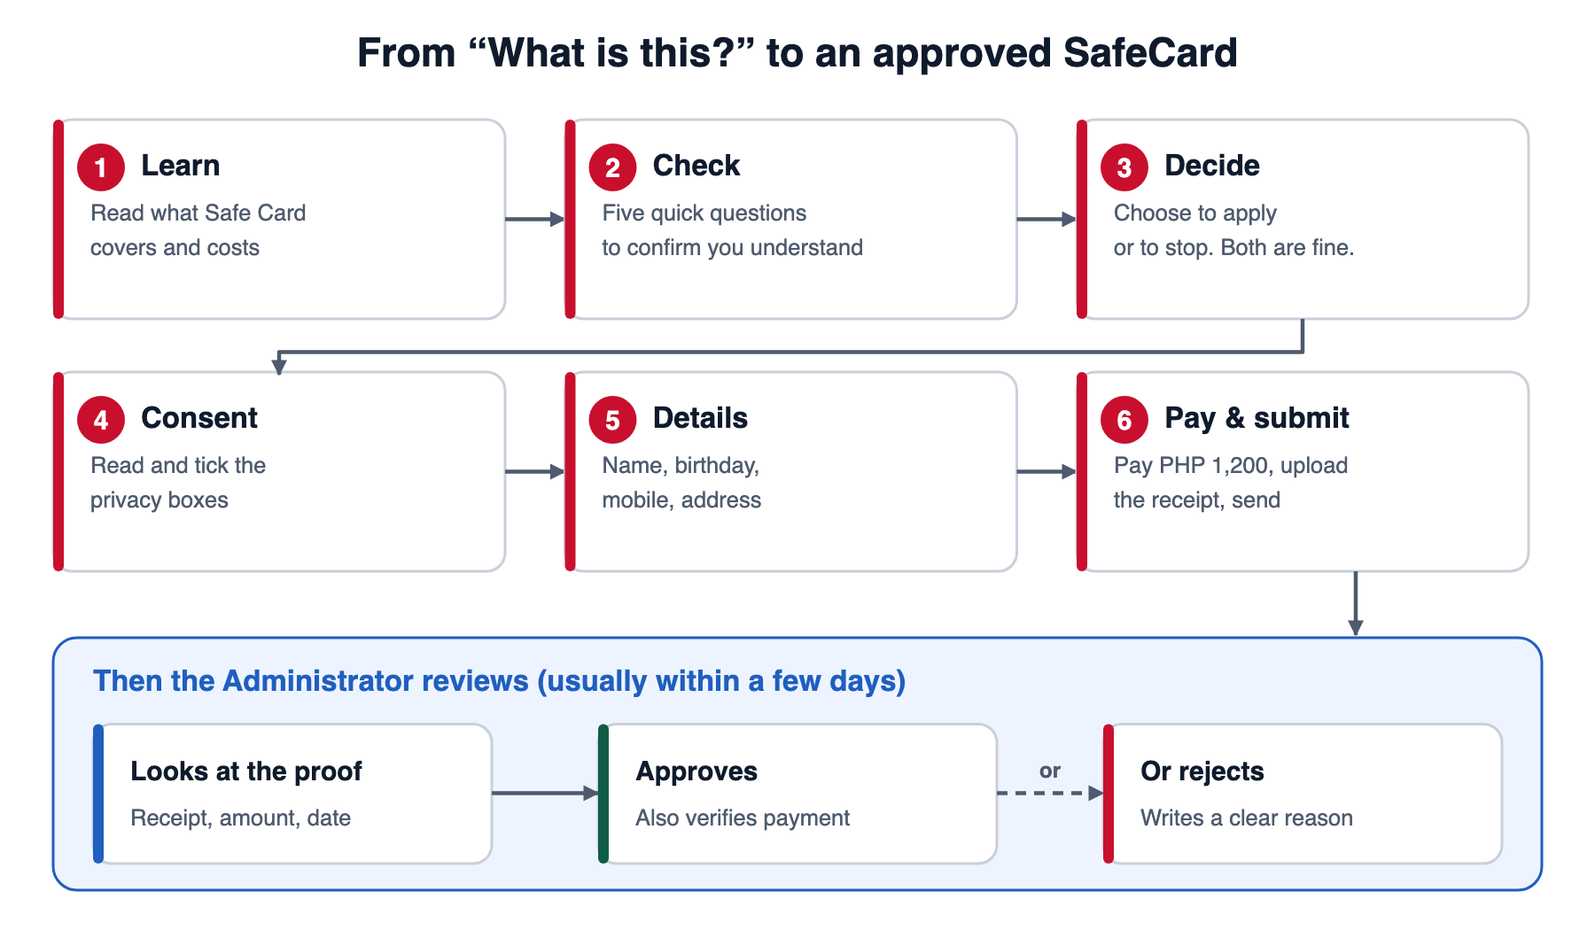
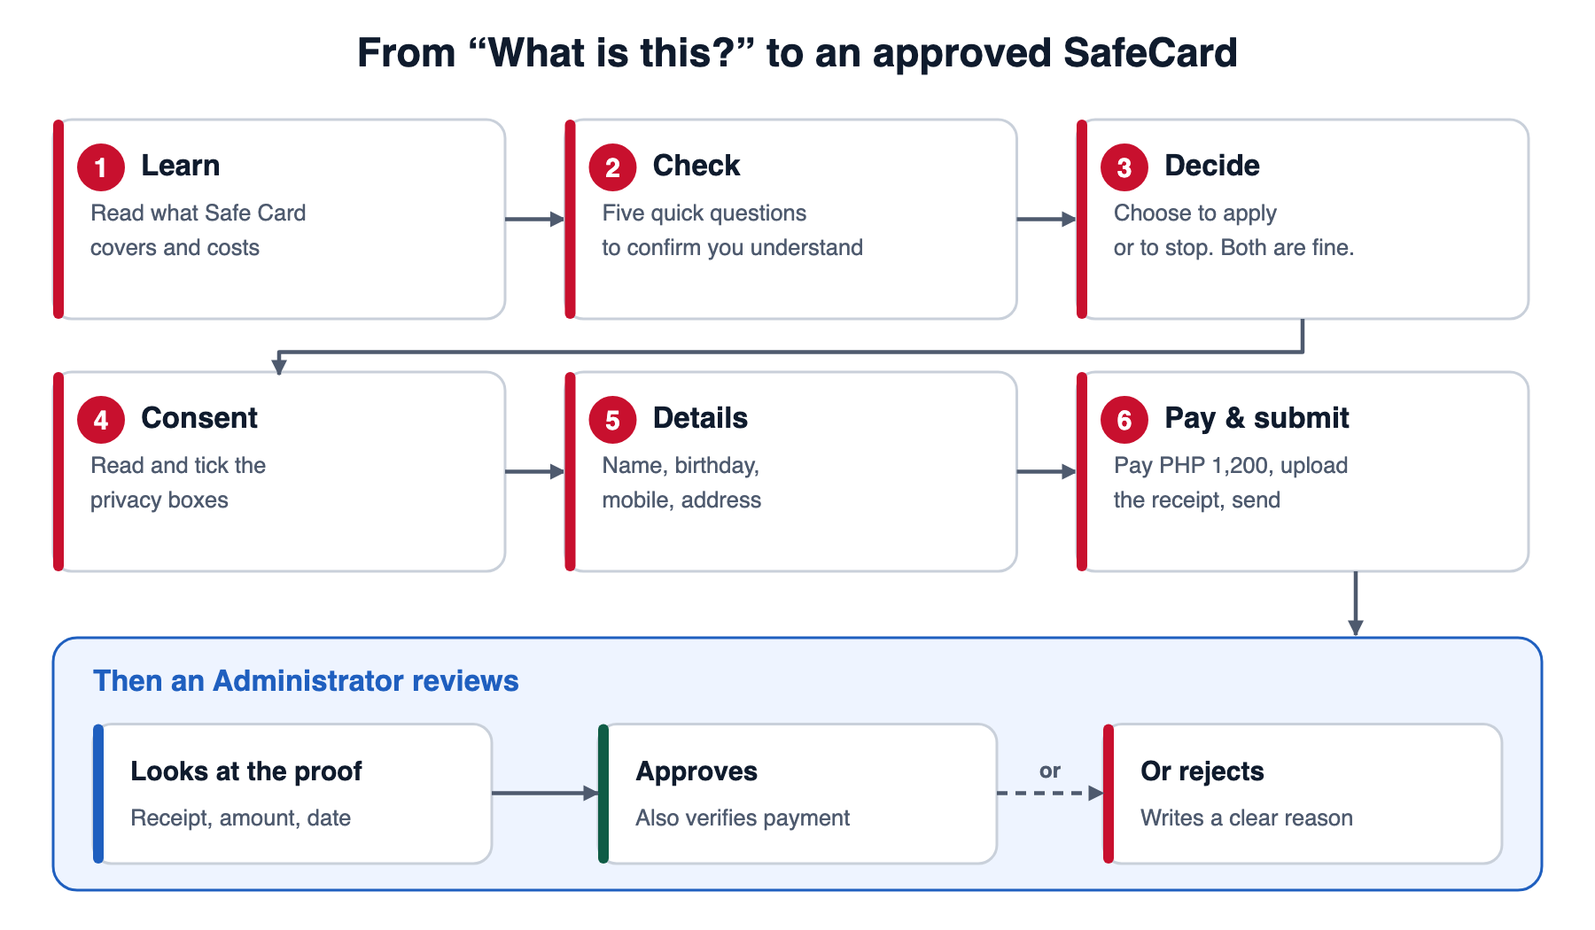
docs(handover): resolve Supabase projects, retire shared-password guide, drop proposed timings
- Document that our deployment uses ubkbrgxgpxycoqsqiwga and the repository
  owner's separate deployment uses ajyhlkzbocjeepglkhrl.
- Remove docs/indy-migration-guide.md and its SQL file, which carried a
  shared temporary password.
- Remove proposed cadences, review targets, durations and the hypercare
  timeline from the pack; keep only contents.
- Drop the Red Cross confirmation notes for the apply-by date and wording.

Changed region(s): [[0.0933, 0.701, 0.56, 0.7619]]

diff --git a/docs/handover/04-hypercare-and-runbooks.md b/docs/handover/04-hypercare-and-runbooks.md
@@ -1,25 +1,21 @@
 # Hypercare plan and runbooks
 
-*What to do in the first weeks after real applicants arrive, and exactly what to do when something goes wrong.*
+*What to do while the pilot is closely watched after real applicants arrive, and exactly what to do when something goes wrong.*
 
 > **Read this first.** If something looks wrong and you are not sure what it is: **do not guess, do not delete anything.** Go to [the Stop button](#2-the-stop-button), then tell the owner. Stopping is safe and can be undone.
 
 **In this document:** [1. What hypercare is](#1-what-hypercare-is) · [2. The Stop button](#2-the-stop-button) · [3. Who does what](#3-who-does-what) · [4. The hypercare log](#4-the-hypercare-log) · [5. Checklists](#5-checklists) · [6. How serious is it?](#6-how-serious-is-it) · [7. Runbooks](#7-runbooks) · [8. Ending hypercare](#8-ending-hypercare) · [9. Handover sign-off](#9-handover-sign-off)
 
-> **Proposed, not agreed.** The checking rhythm, review speeds and severity timings below are **suggested starting points** written for this handover. They are not agreed service levels. The owner should confirm or change them before launch. The *safety rules* (the Stop button, never deleting evidence, owner-only deploys) are **not** suggestions; they come from the project’s release gates.
-
 ---
 
 ## 1. What hypercare is
 
-When a new restaurant opens, the owner stays in the kitchen for the first weeks, tastes every dish, and fixes small things the same day. **Hypercare is that.** For a short time after real people start using SafeCard, we watch it much more closely than usual, answer questions fast, and write down everything we learn.
-
-![The four hypercare weeks](images/diagram-hypercare.png)
+When a new restaurant opens, the owner stays in the kitchen, tastes every dish, and fixes small things right away. **Hypercare is that.** Right after real people start using SafeCard, we watch it much more closely than usual, answer questions fast, and write down everything we learn.
 
 **Goals**
 
 1. No real applicant is harmed, embarrassed, or left waiting without an answer.
-2. Every application is reviewed fairly and on time.
+2. Every application is reviewed fairly.
 3. Small problems are found while they are still small.
 4. We learn what to fix before opening to more people.
 
@@ -102,7 +98,7 @@ Keep **one running log**. A shared document or spreadsheet is fine. It is the me
 
 | When | Who | What happened / what I saw | Severity | What I did | Follow-up needed? |
 |---|---|---|---|---|---|
-| 2026-__-__ 09:10 | | | | | |
+| | | | | | |
 
 **Rules for the log**
 
@@ -114,17 +110,17 @@ Keep **one running log**. A shared document or spreadsheet is fine. It is the me
 
 ## 5. Checklists
 
-### Each check (morning; plus evening in week 1)
+### Each check
 
 - [ ] Open the **public site** on your phone. Does the home page load? Does **Apply** open?
 - [ ] Switch language FIL ⇄ EN. Does it still read correctly?
 - [ ] Sign in to **admin**. Does the overview load with sensible numbers?
-- [ ] **Awaiting review**: is anything waiting longer than the target? (Proposed: same day in week 1, within 1 day in week 2, within 2 days in week 3.)
+- [ ] **Awaiting review**: is any application still waiting that should already have a decision?
 - [ ] Look in **Vercel → Logs** for red errors and in **Supabase → Logs** for repeated failures. You are looking for *unusual*, not *perfect*.
 - [ ] Any messages or calls from applicants? Log them.
 - [ ] Anything odd? Write it in the log.
 
-### Once a week
+### Regular review
 
 - [ ] Count: applications received, approved, rejected, still waiting.
 - [ ] Read the **rejection reasons**: are they clear and kind? Are the same ones repeating (meaning the form needs clearer instructions)?
@@ -132,18 +128,18 @@ Keep **one running log**. A shared document or spreadsheet is fine. It is the me
 - [ ] Confirm **only the right people** have staff accounts.
 - [ ] Confirm the three **safety switches** are still what you expect.
 - [ ] Confirm the **campaign cap** (default 50) has not been reached silently.
-- [ ] Review the log with the owner (15 minutes).
+- [ ] Review the log with the owner.
 
 ---
 
 ## 6. How serious is it?
 
-| Level | What it looks like | Do this | Proposed time to react |
-|---|---|---|---|
-| **1: Critical** | Private data exposed, secret leaked, money shown wrongly, unexplained decisions | **[Stop button](#2-the-stop-button)** → tell owner now → log | Immediately |
-| **2: Major** | Applicants cannot apply or upload; admins cannot sign in; reviewers cannot open applications | Tell owner now. Stop if it involves data or money. | Same hour |
-| **3: Minor** | Wrong wording, a layout glitch, one slow page, one confusing message | Screenshot (no private data) → log → fix through a normal pull request | Same week |
-| **4: Idea** | “It would be nicer if…” | Log it for the owner | Whenever |
+| Level | What it looks like | Do this |
+|---|---|---|
+| **1: Critical** | Private data exposed, secret leaked, money shown wrongly, unexplained decisions | **[Stop button](#2-the-stop-button)** → tell owner now → log |
+| **2: Major** | Applicants cannot apply or upload; admins cannot sign in; reviewers cannot open applications | Tell owner now. Stop if it involves data or money. |
+| **3: Minor** | Wrong wording, a layout glitch, one slow page, one confusing message | Screenshot (no private data) → log → fix through a normal pull request |
+| **4: Idea** | “It would be nicer if…” | Log it for the owner |
 
 ---
 
@@ -231,17 +227,17 @@ Each runbook says **what you see**, **what to do**, and **who to tell**. They ar
 
 ## 8. Ending hypercare
 
-At the end of week 4, hold a short **exit review** (the owner and Indy, 30 minutes). Hypercare ends when **all** of these are true:
+When you think hypercare can end, hold a short **exit review** (the owner and Indy). Hypercare ends when **all** of these are true:
 
 - [ ] No Level 1 or Level 2 issue is open.
-- [ ] Applications are being reviewed within the agreed time, with no backlog.
+- [ ] No application is waiting without a decision, and nobody is waiting on an answer.
 - [ ] The log has been read through and every follow-up is done, scheduled, or deliberately dropped.
 - [ ] The Help page answers the most common questions people asked.
-- [ ] Staff accounts match the people who should have them, and the shared temporary password has been retired (see [housekeeping](03-technical-handover.md#11-security-housekeeping)).
+- [ ] Staff accounts match the people who should have them.
 - [ ] A backup plan exists, or the owner has written down why not yet.
 - [ ] The owner has signed off in writing.
 
-If not all are true, **extend hypercare for one more week** and review again. There is no shame in extending.
+If not all are true, **keep hypercare going** and review again. There is no shame in extending.
 
 ---
 
@@ -249,7 +245,7 @@ If not all are true, **extend hypercare for one more week** and review again. Th
 
 Use this page to record that the handover happened.
 
-| Check | Done (date) | Initials |
+| Check | Done | Initials |
 |---|---|---|
 | I have read the [README](README.md) and know who owns what | | |
 | I can explain, in my own words, what SafeCard does | | |
@@ -257,7 +253,7 @@ Use this page to record that the handover happened.
 | I know where the **Stop button** is and what each step does | | |
 | I have the contact table filled in | | |
 | I know the **two rules that never bend** (code only to the project repo; live changes only from the owner’s Vercel, after a clear yes) | | |
-| I know which Supabase project is live (and wrote it down) | | |
+| I know which Supabase project belongs to our deployment, and which one is not ours | | |
 | I have asked every question I had | | |
 
-**Handed over by:** ______________ **Received by:** ______________ **Date:** ____________
+**Handed over by:** ______________ **Received by:** ______________

diff --git a/docs/handover/03-technical-handover.md b/docs/handover/03-technical-handover.md
@@ -48,7 +48,7 @@ SafeCard is **one website** that has a public side, a member side and an admin s
 - **Git**, to download the code.
 - For the *full* setup only: the **Supabase CLI** and a **Docker-compatible app** (Docker Desktop or similar).
 
-### Option A: “Quick look” (practice mode, no database, 10 minutes)
+### Option A: “Quick look” (practice mode, no database)
 
 This is enough to see every public page and the apply screens.
 
@@ -202,7 +202,14 @@ In live production the app is **fail-closed**: if any required value is missing 
 
 ## 6. The database (Supabase)
 
-> ⚠ **Confirm the project first.** The repository documents refer to Supabase project `ajyhlkzbocjeepglkhrl`. The owner’s working notes refer to `ubkbrgxgpxycoqsqiwga`. Open the Supabase dashboard, check which project the live site’s `NEXT_PUBLIC_SUPABASE_URL` points to, and write the answer here before doing anything to a live database.
+> **Which Supabase project is which.** SafeCard has two live deployments, each with its own database. This was confirmed from the security headers each live site sends.
+>
+> | Deployment | Address | Supabase project |
+> |---|---|---|
+> | **Ours** (the owner’s own Vercel account) | `safecard-access-platform-phi.vercel.app` | `ubkbrgxgpxycoqsqiwga` |
+> | The repository owner’s separate deployment | `safecard-access-platform.vercel.app` | `ajyhlkzbocjeepglkhrl` |
+>
+> The older repository documents (`release-gates.md`, `controlled-production-pilot.md`) describe the **second** one. Never run database commands against, or deploy to, a project that is not yours. The project’s own test setup refuses to seed `ajyhlkzbocjeepglkhrl`. Your local database link (`supabase/.temp/project-ref`) should read `ubkbrgxgpxycoqsqiwga`.
 
 ### What lives in it
 
@@ -297,16 +304,16 @@ Fee: **₱1,200 a year**. The official payment routes and account details are ke
 
 Think of tests as a team of tireless inspectors.
 
-| Command | What it checks | Time |
-|---|---|---|
-| `npm run lint` | Code style problems and common mistakes | seconds |
-| `npm run typecheck` | The labels (types) all line up | seconds |
-| `npm test` | Hundreds of small logic checks (Vitest) | seconds |
-| `npm run build` | The whole site can be built for real | ~1 minute |
-| `npm run test:e2e` | Robot browsers click through the public site in Chrome, Firefox, Safari, and two phone sizes | ~15–30 minutes |
-| `npm run test:performance` | Speed budgets (loading time) | few minutes |
-| `npm run test:e2e:admin` / `test:performance:admin` | Admin screens, against a disposable practice database | needs Docker |
-| `npm run verify` | **All of the main ones, in order** | long |
+| Command | What it checks |
+|---|---|
+| `npm run lint` | Code style problems and common mistakes |
+| `npm run typecheck` | The labels (types) all line up |
+| `npm test` | Hundreds of small logic checks (Vitest) |
+| `npm run build` | The whole site can be built for real |
+| `npm run test:e2e` | Robot browsers click through the public site in Chrome, Firefox, Safari, and two phone sizes |
+| `npm run test:performance` | Speed budgets (loading time) |
+| `npm run test:e2e:admin` / `test:performance:admin` | Admin screens, against a disposable practice database |
+| `npm run verify` | **All of the main ones, in order** |
 
 To run the browser tests against a site you already started (as in option C above):
 
@@ -378,7 +385,7 @@ Things to do or confirm. None of them need a developer.
 
 | # | Item | Why |
 |---|---|---|
-| 1 | **Retire the shared temporary password.** [`docs/indy-migration-guide.md`](../indy-migration-guide.md) and `docs/indy-pilot-accounts-setup.sql` contain a shared temporary password and fixed account details for pilot accounts. Anyone who ever saw those files can try that password. **Change the passwords on those accounts** and ask the owner whether to delete or rewrite those two files (the git history will still contain them). | A password in a repository is a published password. |
+| 1 | **Change the passwords on the pilot accounts that the retired setup guide created.** The old guide (`docs/indy-migration-guide.md`) and its SQL file were removed from the repository, but they still exist in the project’s git history, so the shared temporary password they contained must be treated as public. Change it in **Supabase → Authentication → Users** for each account. | A password in a repository is a published password. |
 | 2 | Confirm every staff account uses a **private** password nobody else knows. | Accountability. |
 | 3 | Confirm Production, Preview and Development use **different** secrets and data. | One leak must not open everything. |
 | 4 | Confirm the `SUPABASE_SERVICE_ROLE_KEY` is only in Vercel’s **server** settings. | It bypasses database rules. |
@@ -389,9 +396,7 @@ Things to do or confirm. None of them need a developer.
 
 ## 12. Christmas mode
 
-A temporary campaign (gift pages, a card maker, decorations) that **switches itself on and off by date** and can be stopped instantly. Everything about it is in [`docs/christmas-mode.md`](../christmas-mode.md). In one picture:
-
-![Christmas mode dates](images/diagram-christmas-timeline.png)
+A temporary campaign (gift pages, a card maker, decorations) that **switches itself on and off by date** and can be stopped instantly. Everything about it, including how to stop or remove it, is in [`docs/christmas-mode.md`](../christmas-mode.md).
 
 ---
 
@@ -413,15 +418,11 @@ The script answers every request with **fake sample data**, so it cannot touch a
 
 | # | Item | Suggested next step |
 |---|---|---|
-| 1 | Which Supabase project is live ([section 6](#6-the-database-supabase)). | Owner confirms; write it down. |
-| 2 | Shared temporary password in an old guide ([section 11](#11-security-housekeeping)). | Rotate, then retire the files. |
-| 3 | A controlled-pilot branch adds a first-administrator setup page and bootstrap script. Docs mention `/admin/setup`. | Confirm whether that branch is merged; if not, those steps do not apply yet. |
-| 4 | No screen to manage staff or roles. | Roles are provisioned by script or SQL; keep a written list of who holds which role. |
-| 5 | No text-message or email notifications. | By design; members check the portal. |
-| 6 | Filipino text is a **translation draft** until the Red Cross approves it. | Ask PRC to review before final launch. |
-| 7 | Backups are waived for the MVP. | Decide the backup plan before R2. |
-| 8 | Hypercare numbers are proposals. | Confirm with the owner ([document 4](04-hypercare-and-runbooks.md)). |
-| 9 | Node version differs between README (24+) and CI (22). | Pick one and align them. |
+| 1 | A controlled-pilot branch adds a first-administrator setup page and bootstrap script. Docs mention `/admin/setup`. | Confirm whether that branch is merged; if not, those steps do not apply yet. |
+| 2 | No screen to manage staff or roles. | Roles are provisioned by script or SQL; keep a written list of who holds which role. |
+| 3 | No text-message or email notifications. | By design; members check the portal. |
+| 4 | Backups are waived for the MVP. | Decide the backup plan before R2. |
+| 5 | Node version differs between README (24+) and CI (22). | Pick one and align them. |
 
 ---
 

diff --git a/docs/handover/README.md b/docs/handover/README.md
@@ -9,19 +9,19 @@
 
 ## What is in the pack
 
-| # | Document | Read it if you… | Time |
-|---|---|---|---|
-| 1 | [User manual: applicants and members](01-user-manual-applicants-and-members.md) | want to understand what the public sees, or need to help someone apply | 20 min |
-| 2 | [User manual: administrators](02-user-manual-administrators.md) | will review applications and approve or reject them | 25 min |
-| 3 | [Technical handover](03-technical-handover.md) | will look after the code, the database or the website hosting | 45 min |
-| 4 | [Hypercare plan and runbooks](04-hypercare-and-runbooks.md) | are on watch after launch, or something just went wrong | 30 min |
-| 5 | [Glossary and FAQ](05-glossary-and-faq.md) | meet a word you do not know | as needed |
-| + | [Christmas mode guide](../christmas-mode.md) | need to preview, stop or remove the Christmas campaign | 10 min |
+| # | Document | Read it if you… |
+|---|---|---|
+| 1 | [User manual: applicants and members](01-user-manual-applicants-and-members.md) | want to understand what the public sees, or need to help someone apply |
+| 2 | [User manual: administrators](02-user-manual-administrators.md) | will review applications and approve or reject them |
+| 3 | [Technical handover](03-technical-handover.md) | will look after the code, the database or the website hosting |
+| 4 | [Hypercare plan and runbooks](04-hypercare-and-runbooks.md) | are on watch after launch, or something just went wrong |
+| 5 | [Glossary and FAQ](05-glossary-and-faq.md) | meet a word you do not know |
+| + | [Christmas mode guide](../christmas-mode.md) | need to preview, stop or remove the Christmas campaign |
 
 ## Where to start
 
 ```
- Never seen the app?  ──►  Read 1, then look at the live site for 10 minutes
+ Never seen the app?  ──►  Read 1, then look at the live site
  Reviewing people?    ──►  Read 2, then practise with the sample data
  Looking after it?    ──►  Read 3, then 4
  Something is on fire ──►  Jump straight to the Stop button in 4
@@ -48,13 +48,10 @@
 - **Diagrams** are drawn for this pack. Their source files (`.svg`) sit next to the pictures in [`images/`](images/).
 - To retake every screenshot after the app changes, see [Retaking the pictures](03-technical-handover.md#13-retaking-the-pictures).
 
-## Things this pack could not settle (read before you rely on it)
+## Things worth knowing before you rely on this pack
 
-These are open questions for the owner. They are repeated where they matter.
-
-1. **Two different Supabase project IDs appear in our notes.** The repository documents name `ajyhlkzbocjeepglkhrl`; the owner’s working notes name `ubkbrgxgpxycoqsqiwga`. Confirm which one is the live database in the Supabase dashboard before any production step.
-2. **An old setup guide contains a shared temporary password** ([`docs/indy-migration-guide.md`](../indy-migration-guide.md)). Treat it as burned. See [Security housekeeping](03-technical-handover.md#11-security-housekeeping).
+1. **There are two SafeCard deployments, each with its own database.** Ours (the owner’s own Vercel account, `safecard-access-platform-phi.vercel.app`) uses Supabase project `ubkbrgxgpxycoqsqiwga`. The repository owner’s separate deployment (`safecard-access-platform.vercel.app`) uses `ajyhlkzbocjeepglkhrl`. The repository’s older docs (`release-gates.md`, `controlled-production-pilot.md`) describe that second one. See [the technical handover](03-technical-handover.md#6-the-database-supabase).
+2. **The old shared-password guide has been retired.** The files `docs/indy-migration-guide.md` and `docs/indy-pilot-accounts-setup.sql` were removed from the repository. The accounts they created must still have their passwords changed in Supabase. See [Security housekeeping](03-technical-handover.md#11-security-housekeeping).
 3. **Some documents describe a controlled-pilot branch** that adds a first-administrator setup page (`/admin/setup`) and a bootstrap script. Check whether that branch has been merged before following those steps.
-4. **Hypercare numbers** (how often to check, how fast to review) in document 4 are **proposed starting points**, not agreed targets. Confirm or change them with the owner.
 
-*Written for the Christmas 2026 release (October 2026). If you change the app, update the matching page here in the same pull request.*
+*If you change the app, update the matching page here in the same pull request.*

diff --git a/docs/handover/02-user-manual-administrators.md b/docs/handover/02-user-manual-administrators.md
@@ -2,7 +2,7 @@
 
 *For the people who review applications. No technical knowledge needed.*
 
-**In this manual:** [Your job in one sentence](#1-your-job-in-one-sentence) · [Signing in](#2-signing-in) · [The overview](#3-the-overview-screen) · [The applications list](#4-the-applications-list) · [Reviewing one application](#5-reviewing-one-application) · [Approving](#6-approving) · [Rejecting](#7-rejecting) · [Rules for handling private data](#8-rules-for-handling-private-data) · [Roles](#9-roles-who-can-do-what) · [Tricky situations](#10-tricky-situations) · [Daily checklist](#11-your-daily-checklist)
+**In this manual:** [Your job in one sentence](#1-your-job-in-one-sentence) · [Signing in](#2-signing-in) · [The overview](#3-the-overview-screen) · [The applications list](#4-the-applications-list) · [Reviewing one application](#5-reviewing-one-application) · [Approving](#6-approving) · [Rejecting](#7-rejecting) · [Rules for handling private data](#8-rules-for-handling-private-data) · [Roles](#9-roles-who-can-do-what) · [Tricky situations](#10-tricky-situations) · [Your checklist](#11-your-checklist)
 
 > **Practice first.** The pictures in this manual use **sample people** (Ana Sample, Ben Example, Carla Demo) and a **fake receipt**. Learn the screens on practice data before you touch a real applicant.
 
@@ -192,9 +192,9 @@ There is **no screen to add or remove staff** in this release. Accounts and role
 
 ---
 
-## 11. Your daily checklist
+## 11. Your checklist
 
-Print this or keep it handy.
+Print this or keep it handy, and use it every time you work.
 
 - [ ] Sign in. Check you are on the right **campaign**.
 - [ ] Open **Awaiting review** and set **Oldest first**.

diff --git a/docs/handover/01-user-manual-applicants-and-members.md b/docs/handover/01-user-manual-applicants-and-members.md
@@ -128,7 +128,7 @@ There is **no text-message code**. After a successful sign-in you stay signed in
 
 The status page shows your progress in plain words and tells you **what to do next**.
 
-**While you wait** (the usual first few days):
+**While you wait:**
 
 ![Member status while waiting for review](images/20-member-status-waiting.png)
 
@@ -138,7 +138,7 @@ The status page shows your progress in plain words and tells you **what to do ne
 
 | You see | It means | You should |
 |---|---|---|
-| *Pending / waiting for review* | An administrator has not looked yet. | Wait. Check again tomorrow. |
+| *Pending / waiting for review* | An administrator has not looked yet. | Wait. Check your status page again later. |
 | *Approved* | Application and payment proof accepted. | Open your card. |
 | *Rejected* (with a reason) | Something was wrong, such as a mismatched amount. | Read the reason; contact the Help number if unsure. |
 | *Correction needed* | A detail needs fixing. | Use the correction page the site offers. |

diff --git a/docs/christmas-mode.md b/docs/christmas-mode.md
@@ -93,5 +93,3 @@ Nothing in the database or storage needs cleaning up, because the campaign never
 - **No QR code.** The earlier design showed one; the project removed its QR dependency, and a link is simpler and just as shareable.
 - **No giver name in the link or the member card.** Carrying a name would mean storing or transmitting personal data. The member greeting is generic.
 - **The gift band is added under the hero, not instead of it,** so the real hero, its tests and its wording are untouched.
-- **Apply-by date (10 December)** is a placeholder that needs the owner’s and the Philippine Red Cross’s confirmation of real processing times before launch.
-- **Filipino wording** for the campaign is a draft, like the rest of the Filipino text, until the Red Cross approves it.

diff --git a/docs/handover/05-glossary-and-faq.md b/docs/handover/05-glossary-and-faq.md
@@ -20,7 +20,7 @@
 | **Member** | Someone whose application was approved (or who signs in to check theirs). |
 | **Campaign** | A named group of applications with its own limit and rules, such as “Safe Card Pilot 2026”. |
 | **Pilot** | A small, careful first run before opening to many people. |
-| **Hypercare** | The extra-close watching in the first weeks after launch. |
+| **Hypercare** | The extra-close watching right after launch. |
 | **Consent** | The person’s clear “yes, you may use my information for this”. |
 | **Gift card** | A friendly picture and message made in Christmas mode. It carries no payment and no private data. |
 
